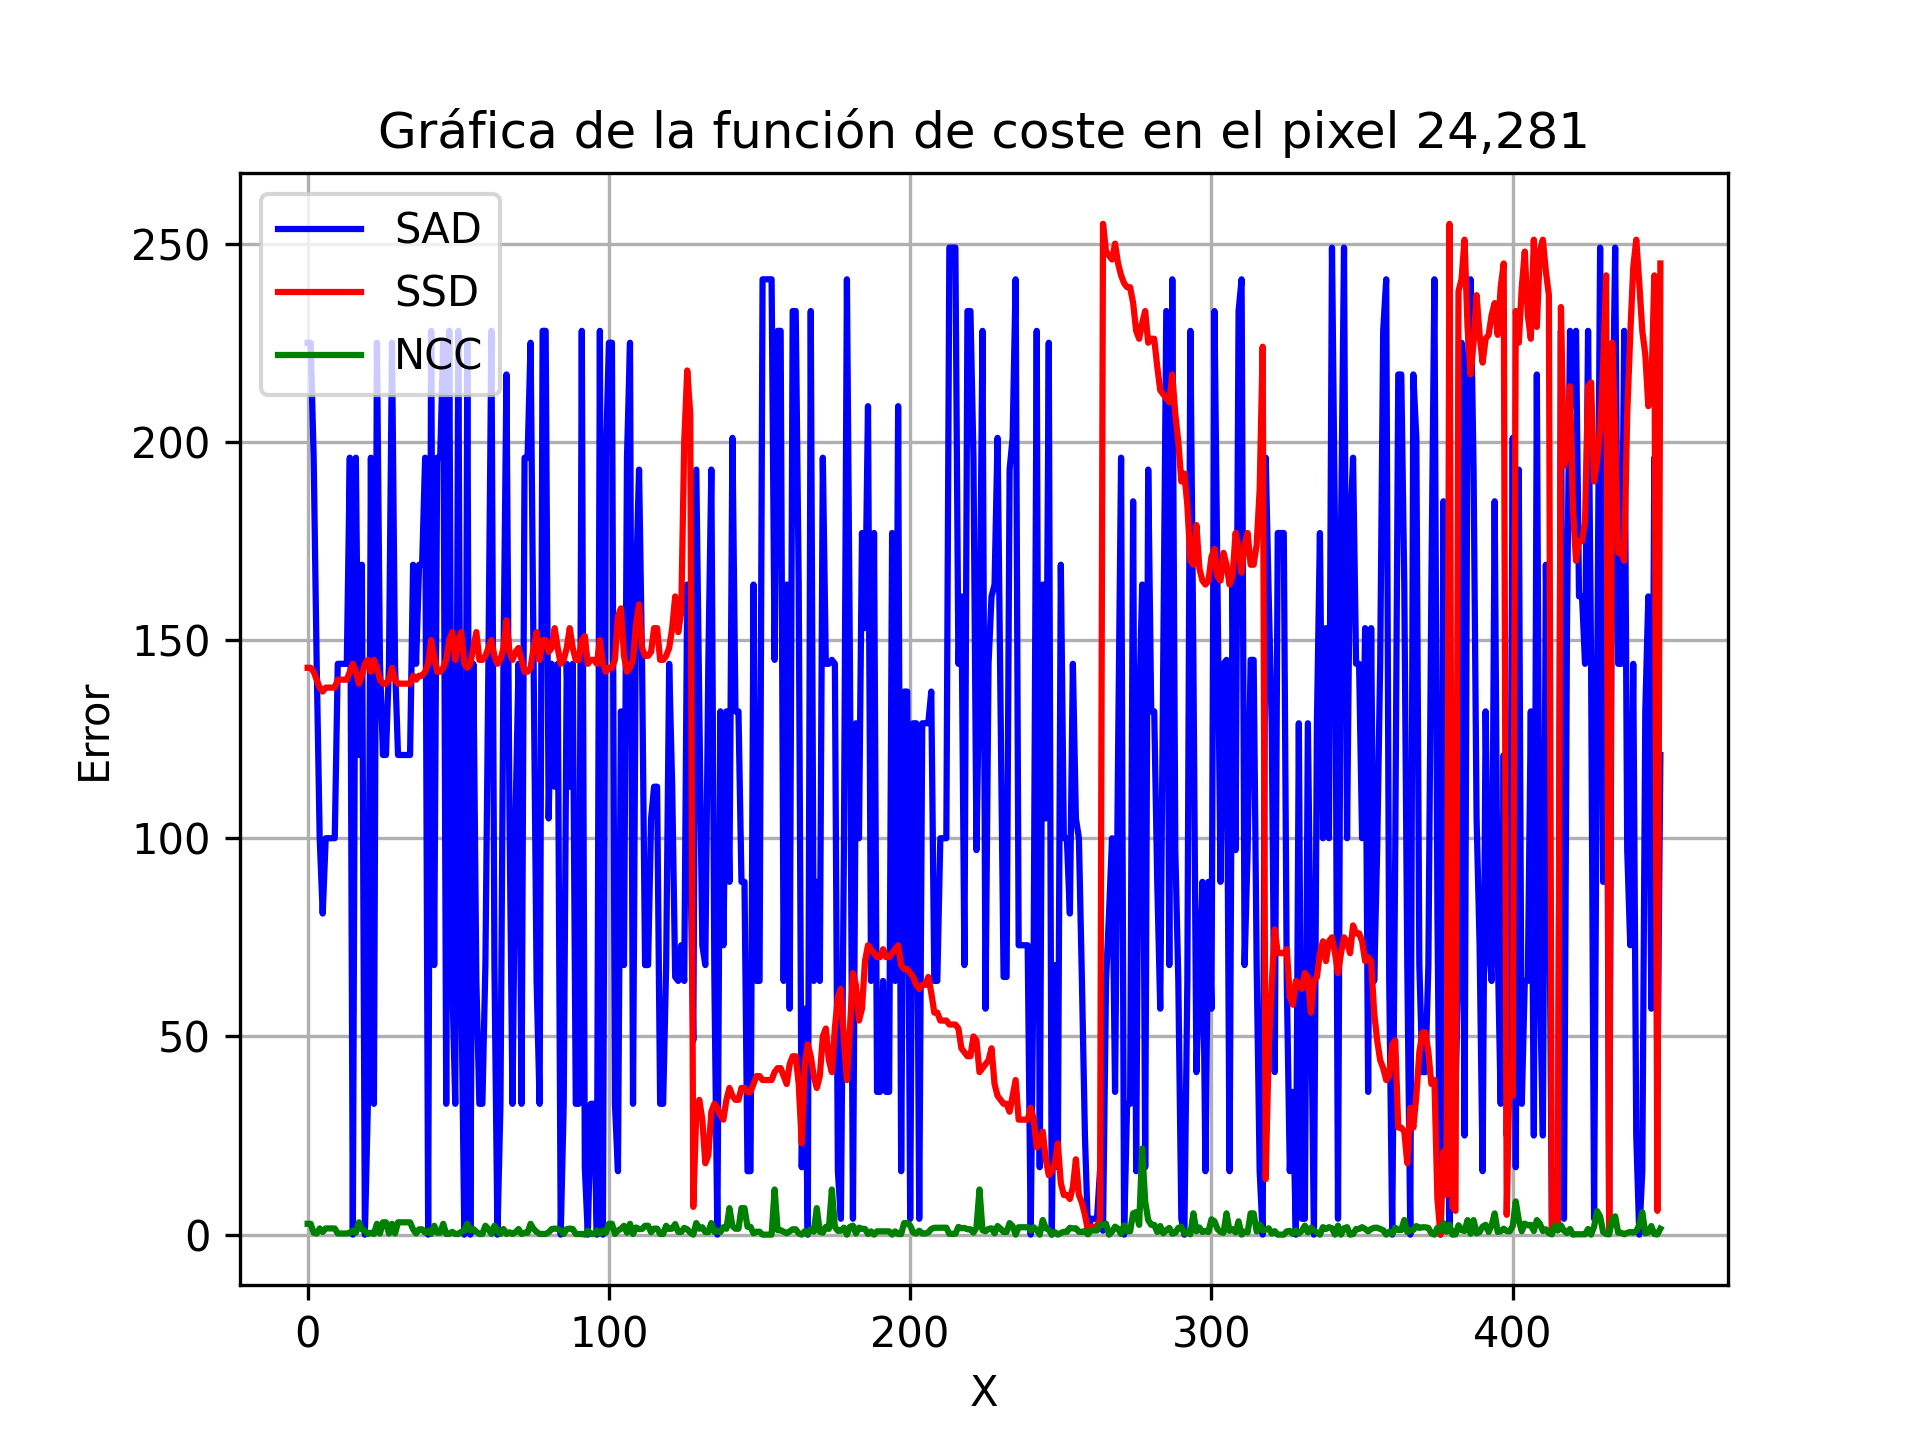
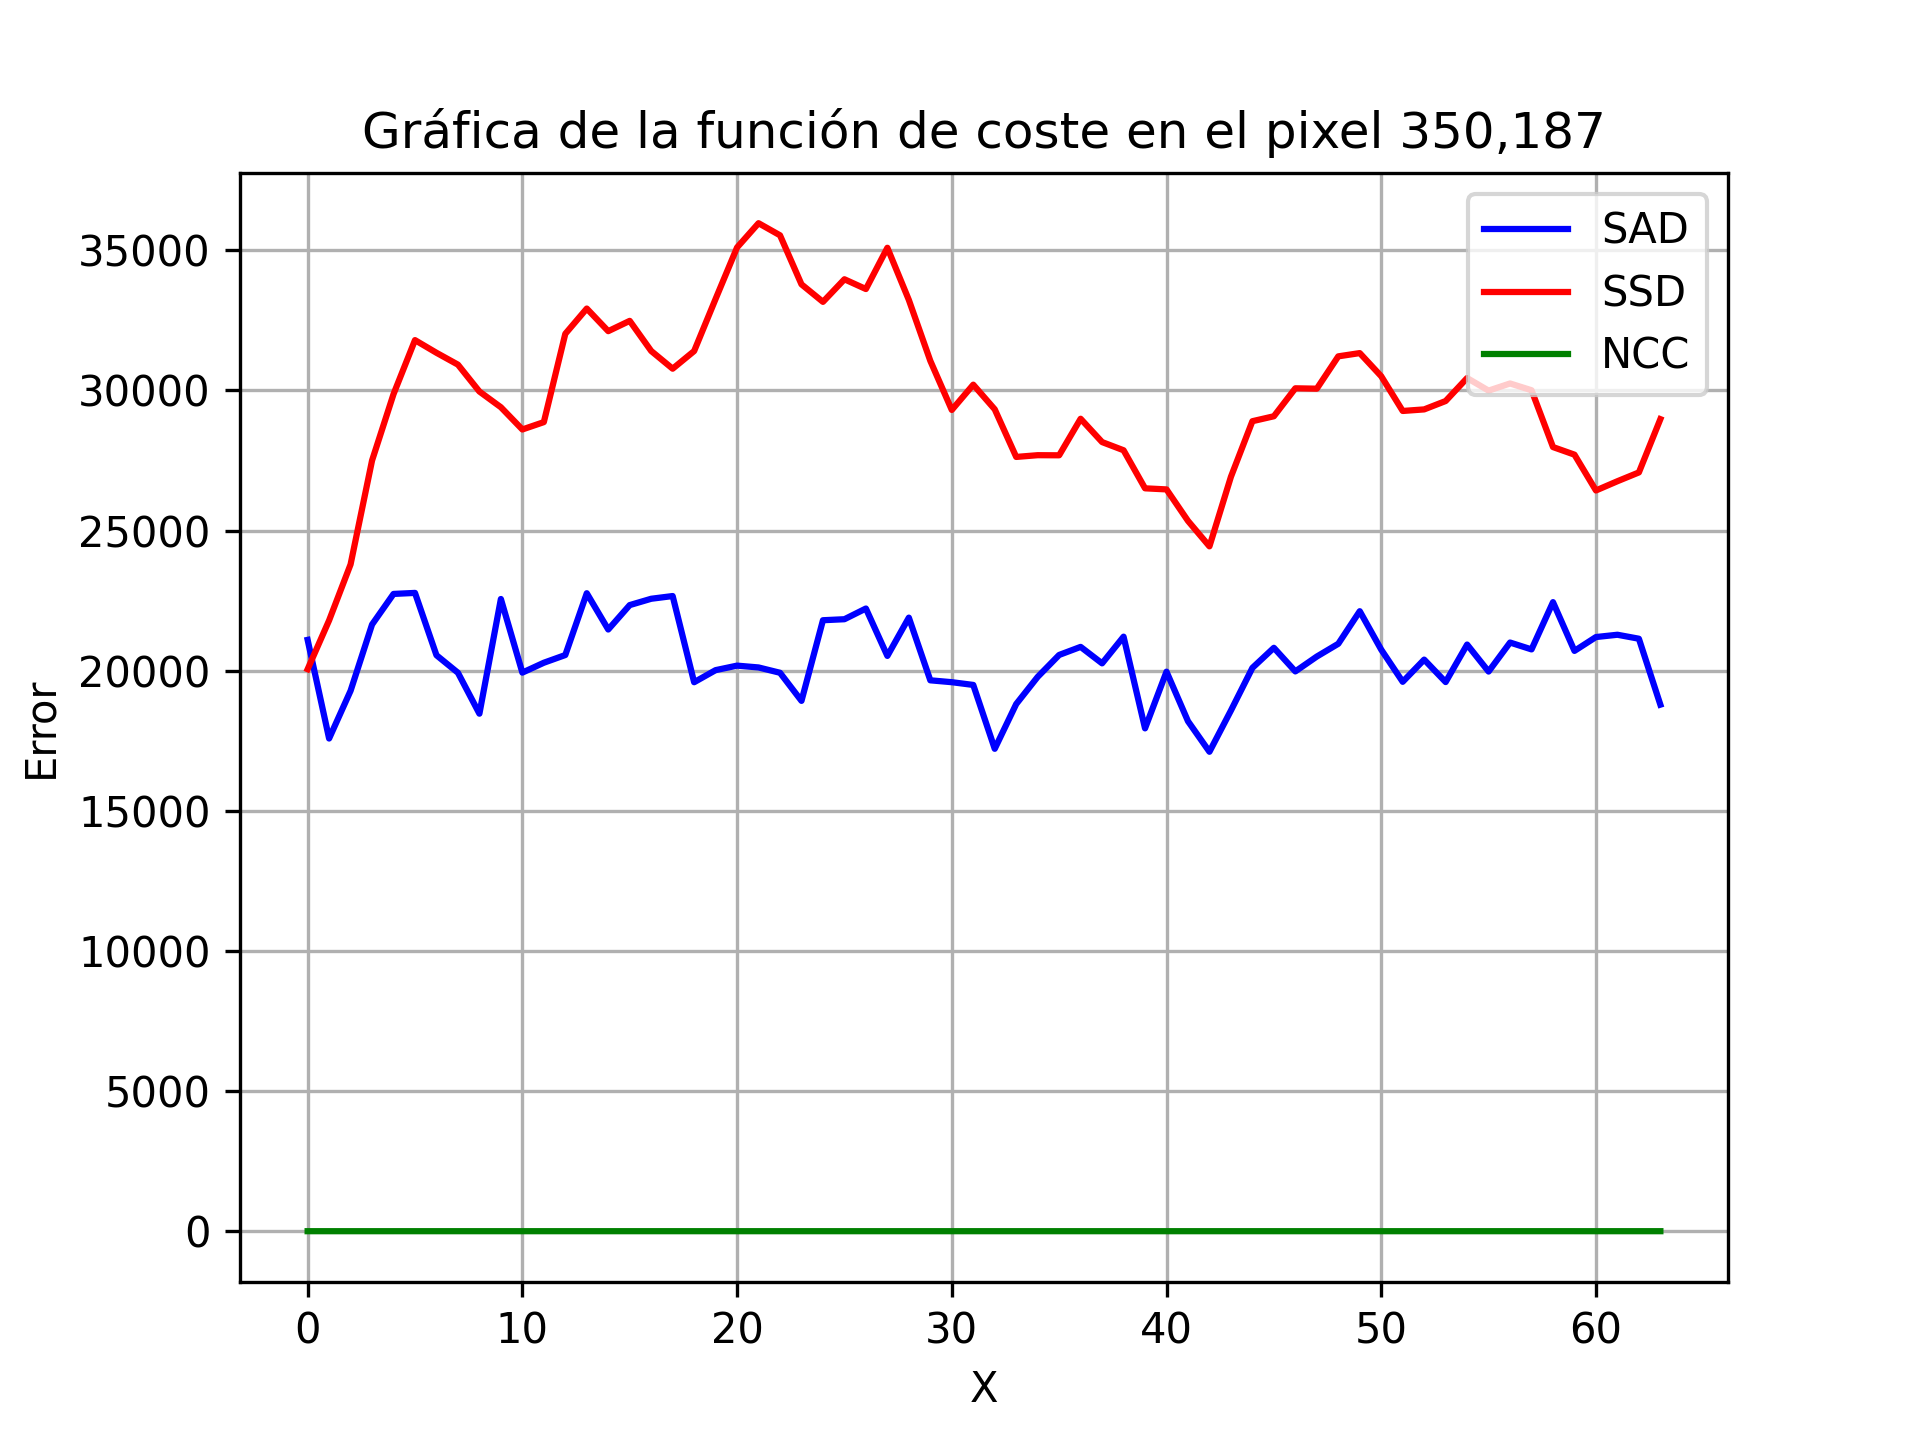
update fdc compare

diff --git a/Etapas/pipeline.py b/Etapas/pipeline.py
@@ -22,7 +22,7 @@ llama a las diferentes partes de la calibración, la cual se realiza mediante el
 de Z. Zhang. Lo que se obtiene de esta calibración es directaente la matriz de parámetros
 intrínsecos K y de esta se puede sacar la matriz de proyección de la cámara P.
 '''
-# Utiliza las imágenes de calibración y los parámetros para calcular la matriz de calibración K
+'''# Utiliza las imágenes de calibración y los parámetros para calcular la matriz de calibración K
 K = calib.calibracion(rutas_imagenes, tamano_tablero, tamano_cuadro, homografias)
 print("Matriz de calibración K:", K)
 
@@ -32,14 +32,14 @@ homografias = np.array(homografias)
 # Usamos la primera homografía para calcular la matriz de proyección P
 P = calib.matriz_p(K, homografias[0])
 print("Matriz de proyección P:", P)
-
+'''
 #------------------------------------------------------------------------------------
 '''
 Esta parte se encarga de volver a sacar la matriz K para poder compararla con la anterior y
 la matriz R de rotación. Para ello se utiliza la función de factorización RQ, además se saca
 también el vector de traslación t.
 '''
-# Se utiliza la P anterior para factorizarla y obtener K, R y t para su comprobación
+'''# Se utiliza la P anterior para factorizarla y obtener K, R y t para su comprobación
 K, R = factorizacion_P.factorizacion_RQ(P)
 
 print("Matriz K de parámetros intrínsecos:", K)
@@ -47,7 +47,7 @@ print("\nMatriz de Rotación R:", R)
 
 t = factorizacion_P.taslacion(P, K)
 print("\nVector de Traslación t:", t)
-
+'''
 #------------------------------------------------------------------------------------
 '''
 Esta parte se encarga al principio de cargar las imágenes. Luego las redimensiona 
@@ -58,7 +58,7 @@ correspondientes a los puntos de interés. Después se comparan los parches de l
 y se obtienen las coincidencias. Por último, se aplica el algoritmo RANSAC para obtener la matriz 
 fundamental F y se visualizan los inliers encontrados.
 '''
-# Carga las imágenes y las convierte a escala de grises
+'''# Carga las imágenes y las convierte a escala de grises
 imagen1 = Image.open("Fase_7/data/izq3.png").convert('L')
 imagen2 = Image.open("Fase_7/data/der3.png").convert('L')
 
@@ -116,19 +116,19 @@ matriz_fundamental_F.visualizar_inliers(imagen1, imagen2, puntos_izq_match, punt
 
 # Guarda la matriz fundamental F en un archivo .npy
 np.save('matriz_F.npy', F)
-
+'''
 #-------------------------------------------------------------------------------------
 '''
 Esta parte se encarga de utilizar la matriz fundamental F y la matriz de calibración K
 para calcular la matriz esencial E.
 '''
-# Utiliza ls matrices fundamental F y K para calcular la matriz esencial E
+'''# Utiliza ls matrices fundamental F y K para calcular la matriz esencial E
 E = matriz_esencial_E.matriz_esencial_E(F, K)
 print("Matriz esencial E:\n", E)
 
 # Guarda la matriz esencial E en un archivo .npy
 np.save('matriz_E.npy', E)
-
+'''
 #-------------------------------------------------------------------------------------
 '''
 Esta parte se encarga de mostrar las líneas epipolares en las imágenes utilizando la matriz fundamental F.
@@ -138,14 +138,14 @@ Una vez se cierra la ventana, emerge otra para hacer lo mismo pero esta ves sele
 de la derecha y mostrando las líneas epipolares en la imagen de la izquierda.
 '''
 
-epipolares.dibujar_epipolar(imagen1, imagen2, F)
+'''epipolares.dibujar_epipolar(imagen1, imagen2, F)
 epipolares.dibujar_epipolar_inv(imagen1, imagen2, F)
 # Solo los inliers
 puntos_izq_inliers = puntos_izq_match[inliers]
 puntos_der_inliers = puntos_der_match[inliers]
 errores = epipolares.validar_epipolaridad(F, puntos_izq_inliers, puntos_der_inliers)
 print("Errores de epipolaridad:", errores)
-
+'''
 #-------------------------------------------------------------------------------------
 '''
 Esta parte se encarga al principio de cargar las imágenes. Luego las redimensiona 
@@ -154,7 +154,7 @@ las imágenes se obtienen las homografías rectificadas Hl y Hr a partir de los 
 de interés. Luego se aplican las homografías a las imágenes originales para obtener 
 las imágenes rectificadas y se muestran individualmente y luego en conjunto.
 '''
-# Carga las imágenes y las convierte a RGB para luego escalarlas
+'''# Carga las imágenes y las convierte a RGB para luego escalarlas
 imagen1 = Image.open("Fase_7/data/izq3.png").convert('RGB')
 imagen2 = Image.open("Fase_7/data/der3.png").convert('RGB')
 
@@ -177,7 +177,7 @@ imagen_rectificada_dcha.show()
 # Se muestran las imágenes rectificadas en conjunto
 imagenes_rectificadas = rectificacion.dibujar_rectificaciones(imagen_rectificada_izq, imagen_rectificada_dcha)
 imagenes_rectificadas.show()
-
+'''
 #--------------------------------------------------------------------------------------
 '''
 Esta parte se encarga al principio de cargar las imágenes. Luego las redimensiona 
@@ -201,6 +201,14 @@ if left.width != 450 and left.height != 375:
 left_gray = np.array(left.convert('L'))
 right_gray = np.array(right.convert('L'))
 
+# Crea la carpeta en caso de no existir para almacenar el archivo de la nube de puntos y el mapa de calor correspondiente en formato PNG
+if not os.path.exists("Fase_7/output"):
+    os.mkdir("Fase_7/output")
+
+
+Fase_7.compare_random_pixel(left_gray, right_gray, "Fase_7/output/") # Compara las distintas funciones de coste(SAD, SSD y NCC) en un pixel aleatorio
+
+
 # Obtiene la disparidad a partir de la imagen izquierda y derecha
 start = time.time()
 disparity = Fase_7.getDisparityMap(left_gray, right_gray)
@@ -213,12 +221,6 @@ colors = np.array(left)
 # Estadistica de tiempo de computo
 print(f"Tiempo de generacion del mapa de disparidad: {end-start:.2f}s")
 
-# Crea la carpeta en caso de no existir para almacenar el archivo de la nube de puntos y el mapa de calor correspondiente en formato PNG
-if not os.path.exists("Fase_7/output"):
-    os.mkdir("Fase_7/output")
-
-
-Fase_7.compare_random_pixel(left_gray, right_gray, "Fase_7/output/SADvsSSDvsNCC.png") # Compara las distintas funciones de coste(SAD, SSD y NCC) en un pixel aleatorio
 Fase_7.save_point_cloud(f"Fase_7/output/BM_python.ply", disparity, colors) # Guarda la nube de puntos en un archivo PLY
 plt.imsave(f"Fase_7/output/BM_python.png", disparity, cmap='jet') # Guarda el mapa de calor de la imagen en base a la nube de puntos
 

diff --git a/Etapas/Fase_7/Fase_7.py b/Etapas/Fase_7/Fase_7.py
@@ -3,6 +3,7 @@ import numpy as np
 import matplotlib.pyplot as plt
 import sys
 import open3d as o3d
+import cv2 as cv
 
 '''Para el desarrollo del código correspondiente de la generación de la nube de puntos 3D. 
 Al principio del código se han declarado unas variables globales las cuales se utilizan en 
@@ -72,21 +73,31 @@ def compare_random_pixel(left, right, saveRoute):
 
     random_x = np.random.randint(0, w)
     random_y = np.random.randint(0, h)
+    random_x = 350
+    random_y = int(h/2)
 
     errorsSAD=[]
     errorsSSD=[]
     errorsNCC=[]
 
-    for x in range(0, w):
-        px_left = left[random_y,random_x]
-        px_right = right[random_y,x]
+    block_left = getROI(random_y, random_x, left)
+    cv.imwrite(saveRoute+"block_left.png", block_left)
 
-        error = fdc(px_left, px_right, 1) # Funcion de coste(0-SAD,1-SSD,2-NCC)
+    bloques = []
+
+    for x in range(max_disp):
+        block_right = getROI(random_y, random_x, right, x)
+        bloques.append(block_right)
+
+        error = fdc(block_left, block_right, 1) # Funcion de coste(0-SAD,1-SSD,2-NCC)
         errorsSAD.append(error)
-        error = fdc(px_left, px_right, 0)
+        error = fdc(block_left, block_right, 0)
         errorsSSD.append(error)
-        error = fdc(px_left, px_right, 2)
+        error = fdc(block_left, block_right, 2)
         errorsNCC.append(error)
+
+    concat_bloques = cv.hconcat(bloques)
+    cv.imwrite(saveRoute+"concat_bloques.png", concat_bloques)
 
     # Crea la figura y los ejes
     fig = plt.figure(dpi=100)
@@ -105,7 +116,7 @@ def compare_random_pixel(left, right, saveRoute):
     plt.show()
 
     # Guarda la grafica
-    fig.savefig(saveRoute, dpi=300)
+    fig.savefig(saveRoute+"SADvsSSDvsNCC.png", dpi=300)
 
 # -------------------------------------------------- ------------------------------------------------------
 
